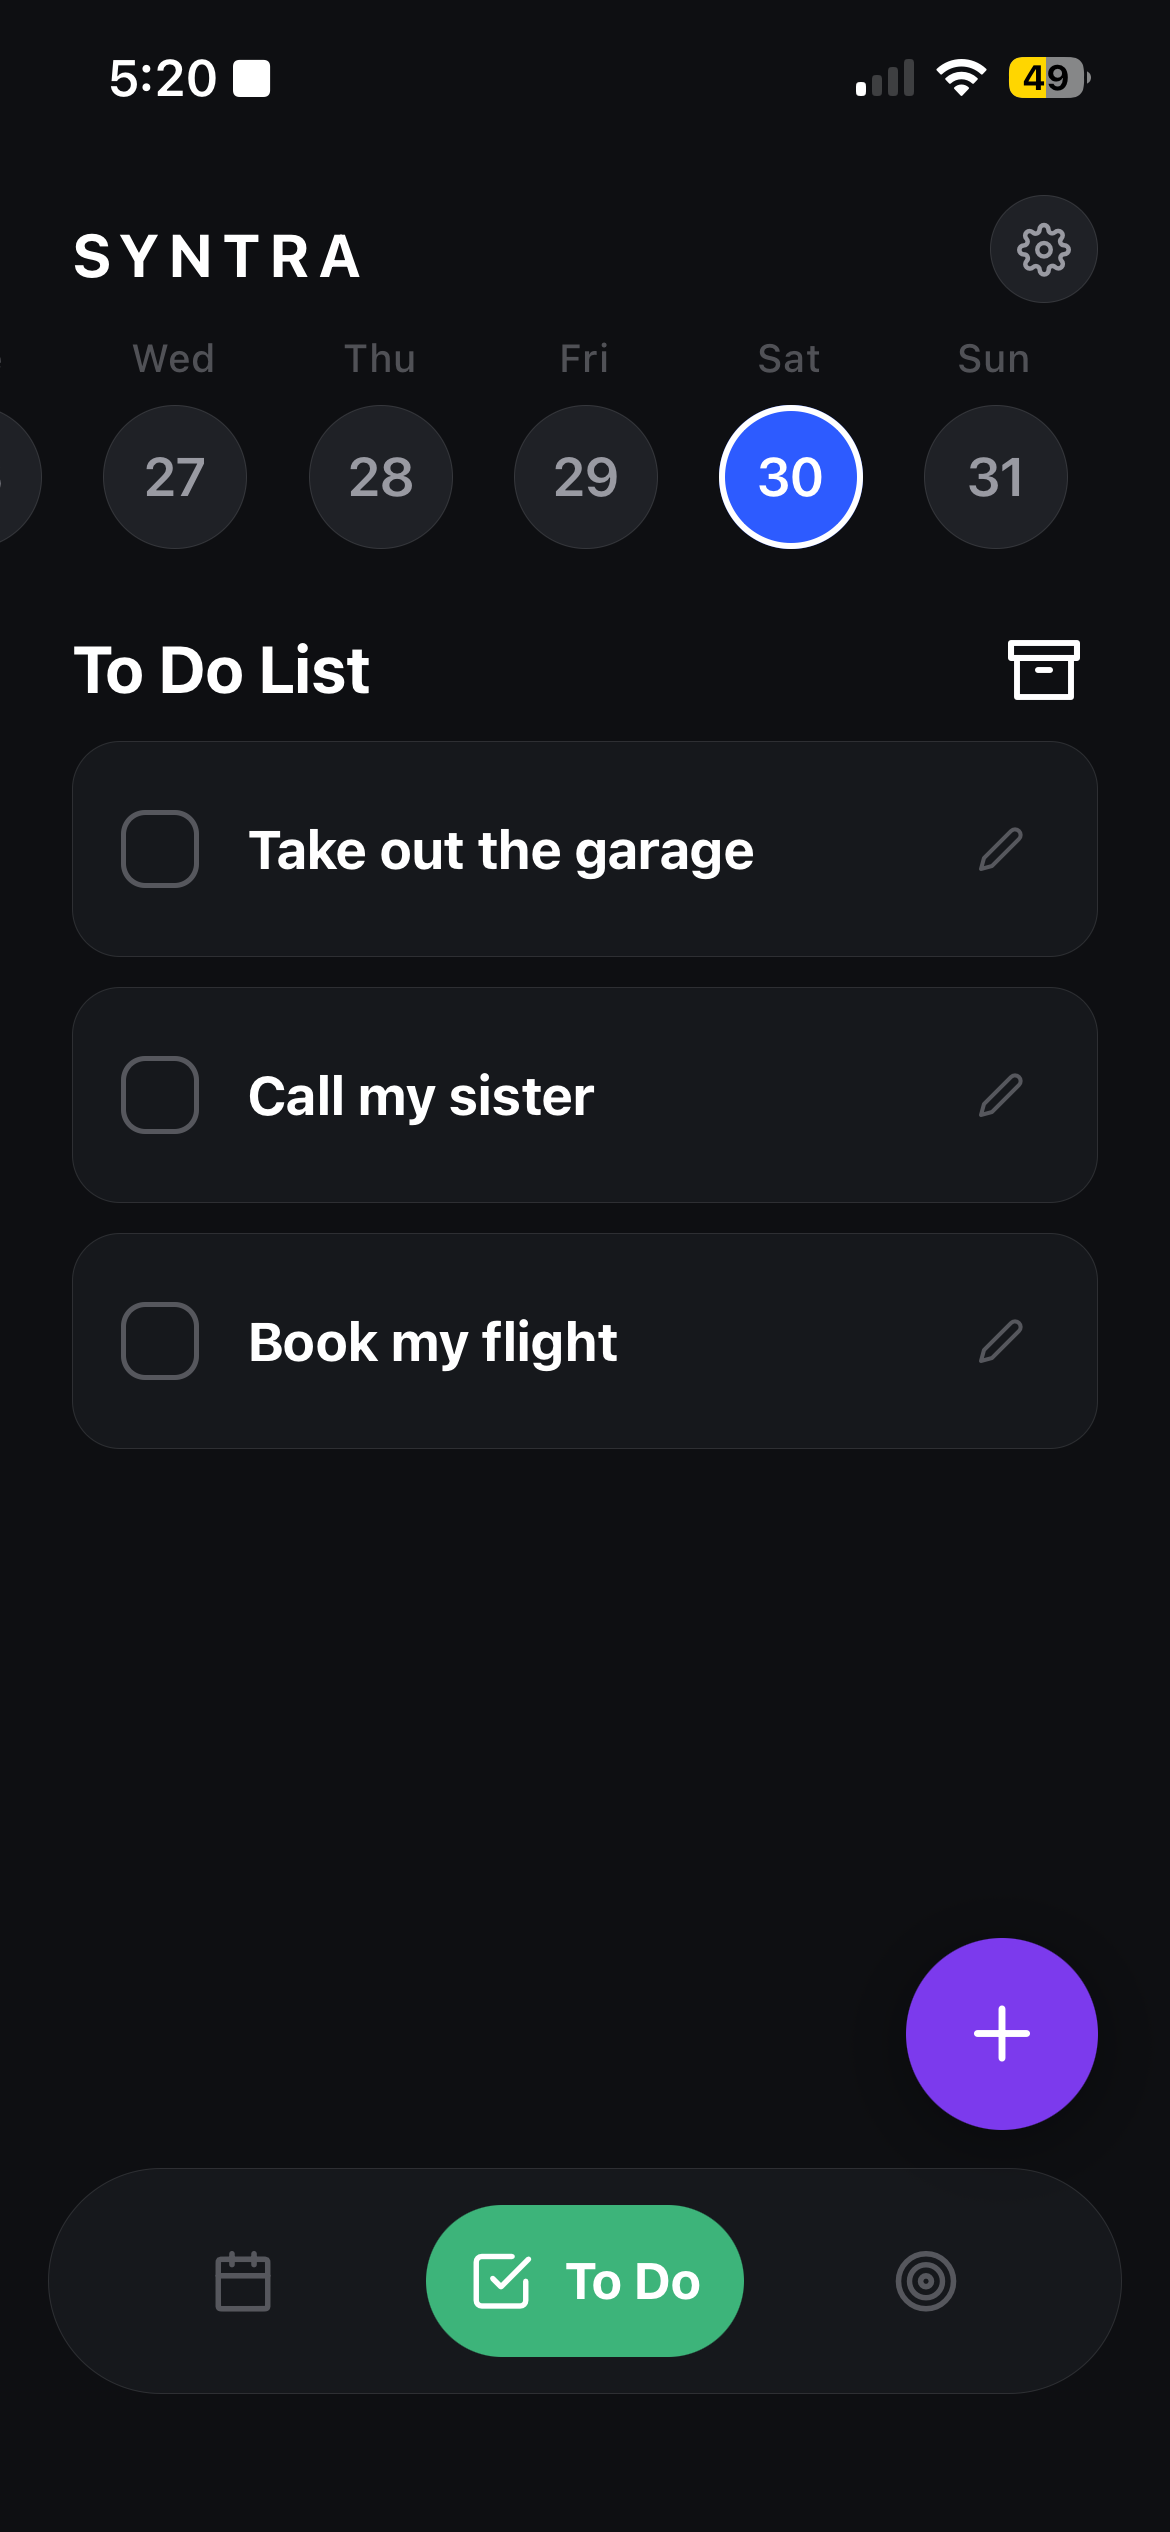
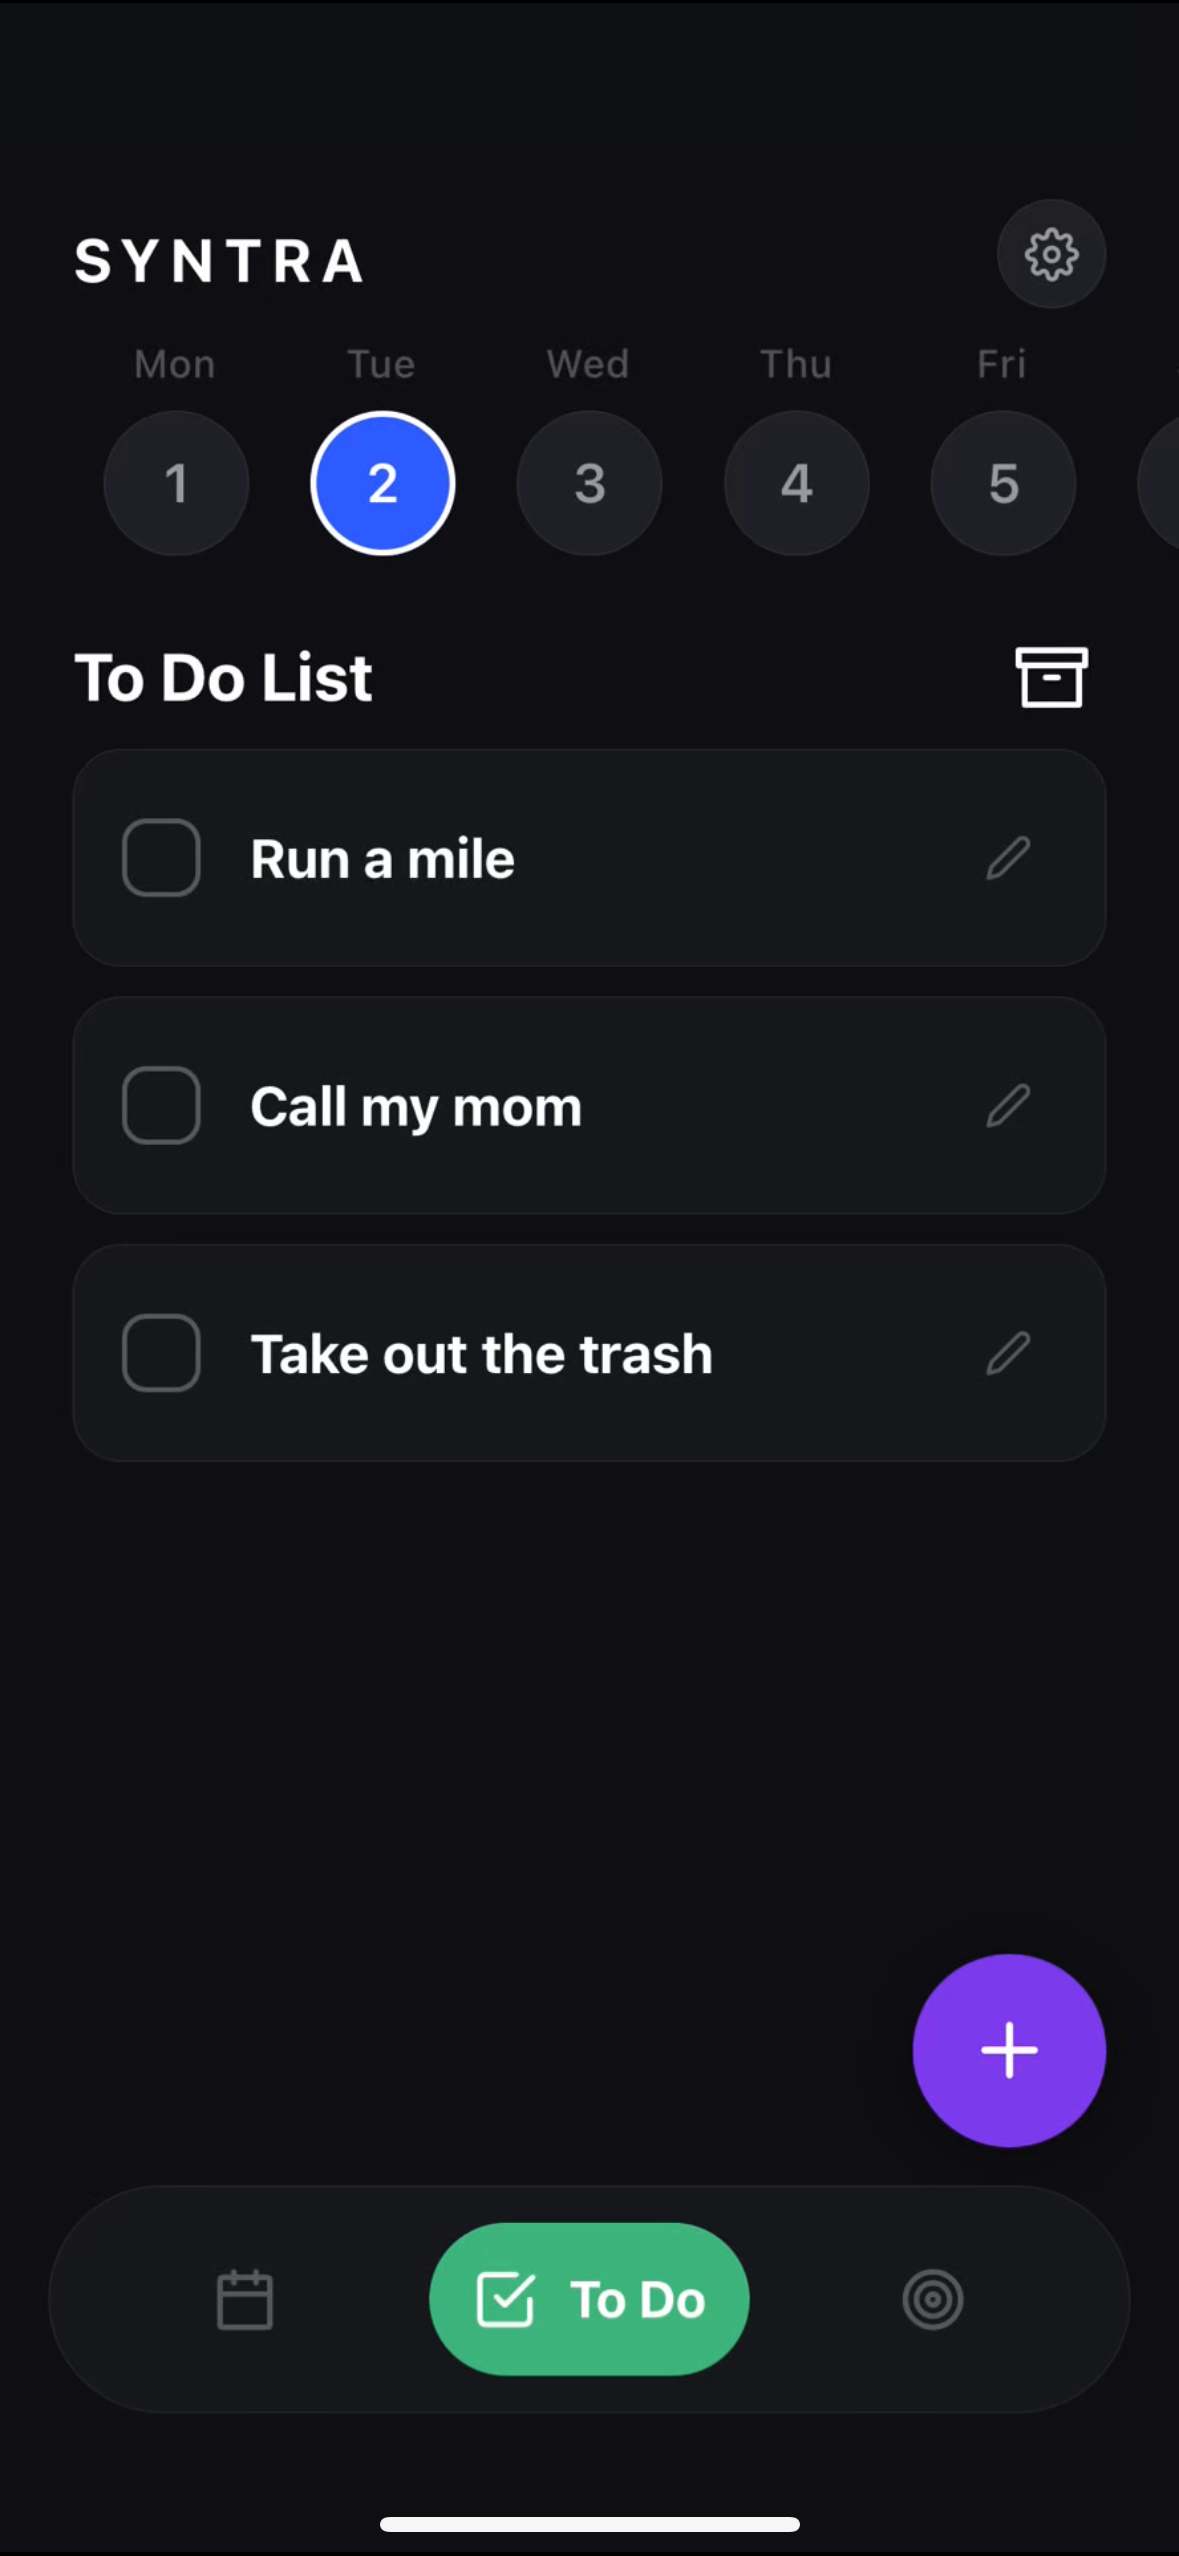
Replace to-do screenshot with new capture

diff --git a/index.html b/index.html
@@ -86,7 +86,7 @@
         </figure>
         <figure class="phone-card">
           <div class="phone phone-shot">
-            <img src="screenshots/todos.png?v=4" alt="To-do list" />
+            <img src="screenshots/todos.png?v=5" alt="To-do list" />
           </div>
           <h3>To-do list</h3>
           <p>The undated stuff lives here. Add by voice or by hand, edit with a tap, and pull anything you've checked off back from the archive.</p>
